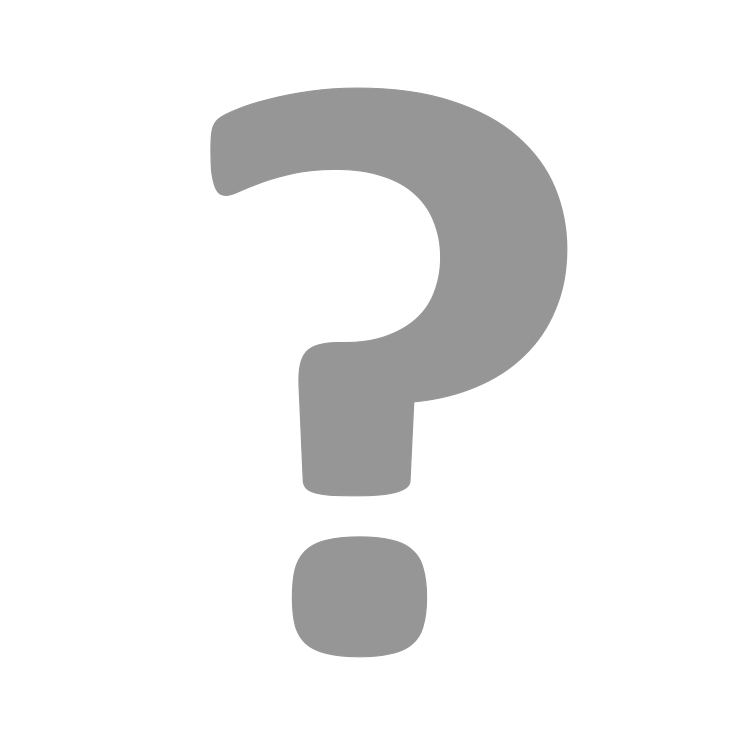
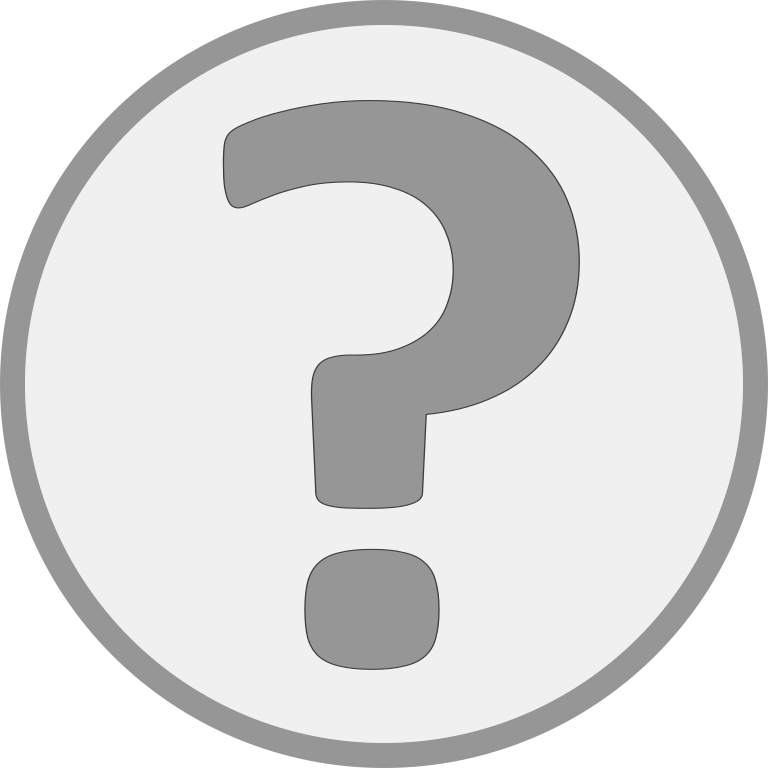
new question mark buttons

diff --git a/index.html b/index.html
@@ -114,7 +114,7 @@
 				</ul>
 			</div>
 			
-			<img id="help_button" class="toggle_button" src="https://caminosdeagua.github.io/Independence-Watershed-Point-Map-English/img/questionMark.png" onmouseenter="changeHelpSrc('hover')" onmouseleave="changeHelpSrc('leave')" onclick="openHelp()"></img>
+			<img id="help_button" class="toggle_button" onmouseenter="changeHelpSrc('hover')" onmouseleave="changeHelpSrc('leave')" onclick="openHelp()"></img>
 			<img id="how_to_read" style="display: none;"></img>
 			<img id="x_button" class="toggle_button" src="https://caminosdeagua.github.io/Independence-Watershed-Point-Map-English/img/xButton2.png" style="display: none;" onclick="closeHelp()"></img>
 			
@@ -199,6 +199,7 @@
 			document.getElementById("as_title").innerHTML = AS_TITLE;
 			document.getElementById("risk_title").innerHTML = RISK_TITLE;
 			document.getElementById("how_to_read").src = LEGEND_URL;
+			document.getElementById("help_button").src = HELP_URL;
 			
 			
 			

diff --git a/global.js b/global.js
@@ -109,6 +109,6 @@ var SPIDER_ICONS = [0,0,0,0,0];			//	only need to be grabbed once.
 var BASE_SPIDER_ICONS = [0,0,0,0,0];
 var HISTORICAL_BASE_ICONS = [[0,0,0,0,0],[0,0,0,0],[0,0,0],[0,0],[0]];
 
-var HELP_URL = "https://caminosdeagua.github.io/Independence-Watershed-Point-Map-English/img/questionMark.png";
-var HELP_URL_HOVER = "https://caminosdeagua.github.io/Independence-Watershed-Point-Map-English/img/questionMarkHover.png"
+var HELP_URL = "https://caminosdeagua.github.io/Independence-Watershed-Point-Map-English/img/questionMark2.png";
+var HELP_URL_HOVER = "https://caminosdeagua.github.io/Independence-Watershed-Point-Map-English/img/questionMark2Hover.png"
 
